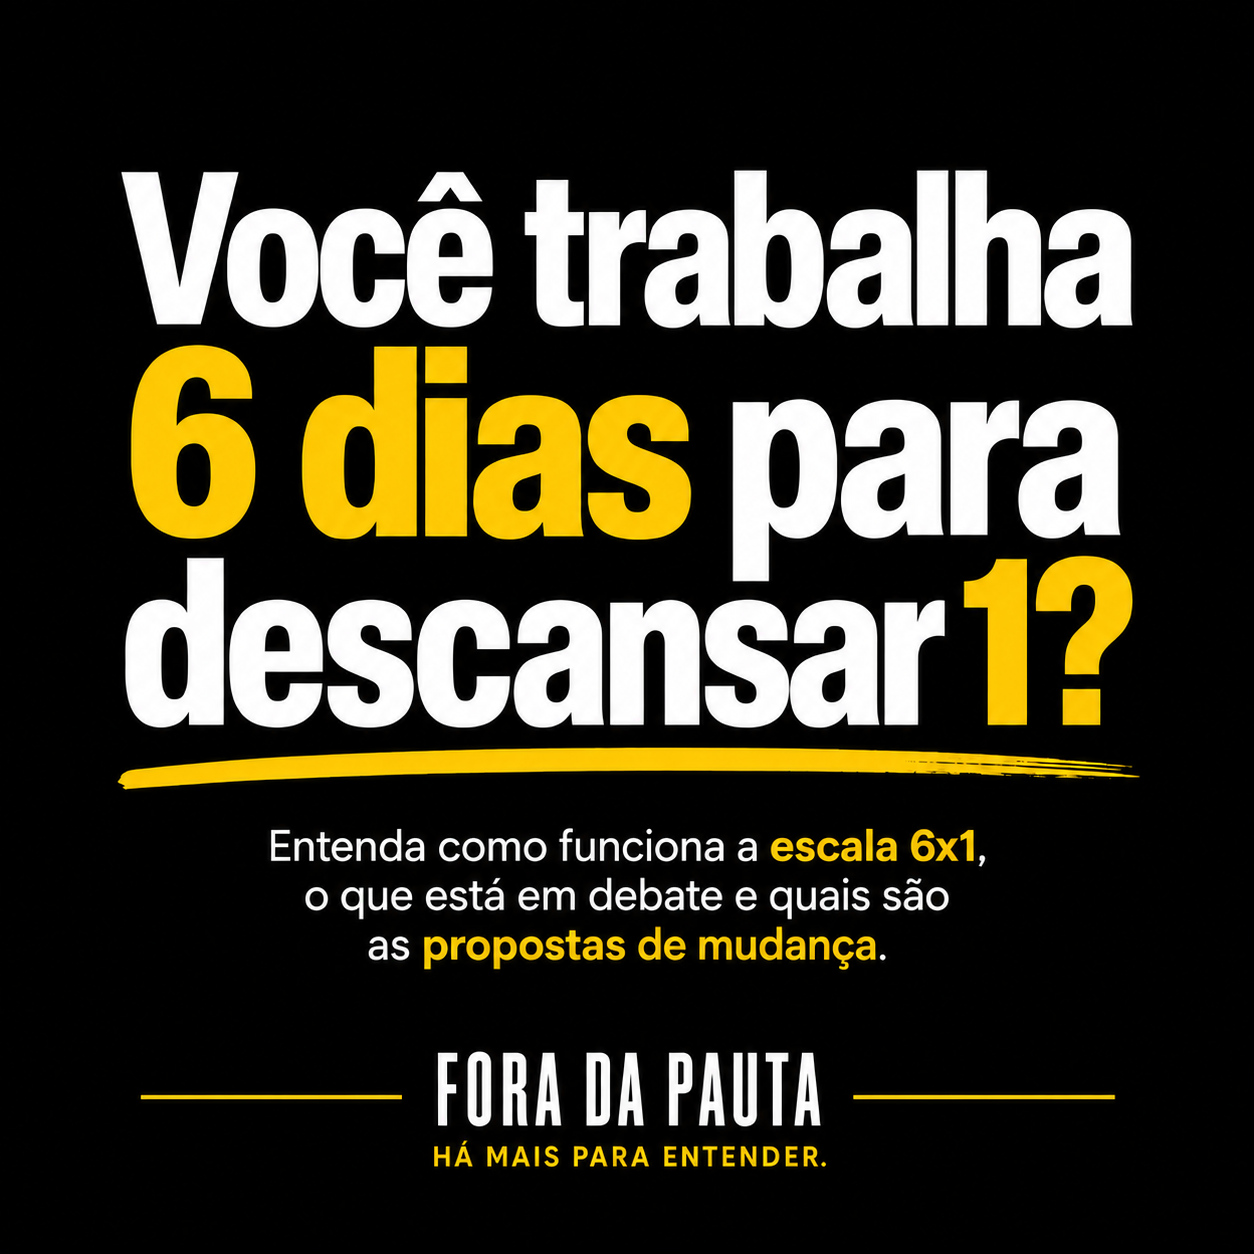
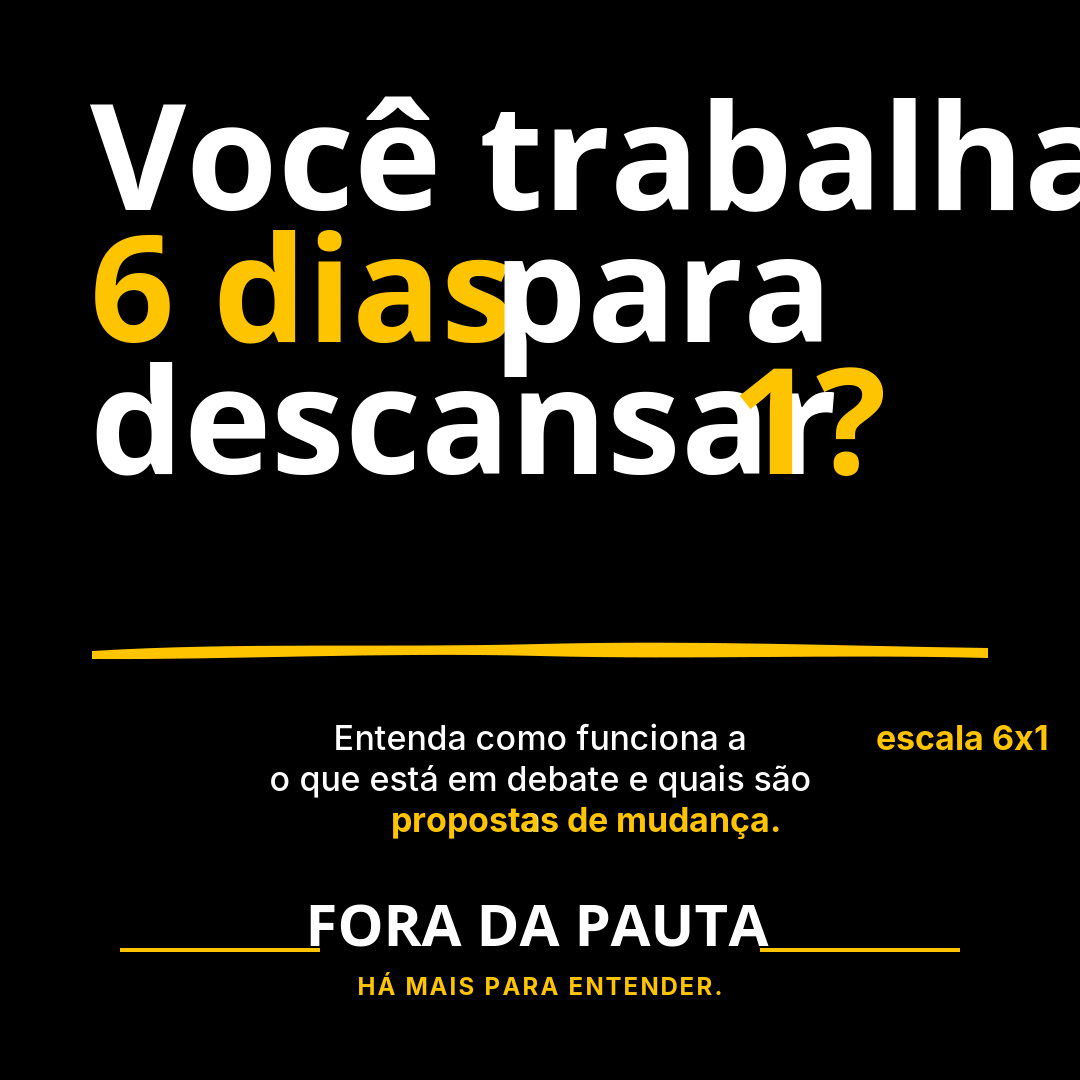
Publica grade editorial e campanha de interesses

Changed region(s): [[0.0611, 0.0917, 1.0, 0.7944], [0.0917, 0.825, 0.8861, 0.9472]]

diff --git a/app/page.tsx b/app/page.tsx
@@ -1,204 +1,118 @@
-import Image from "next/image";
+import Image from "next/image";
 import Link from "next/link";
 
+import { campaigns } from "@/data/campanhas";
+
+const capasConhecidas: Record<string, string> = {
+  "fim-escala-6x1": "/edicoes/edicao-01-fim-da-6x1-capa-grade.png",
+};
+
+function obterCapa(slug: string, coverImage?: string) {
+  return coverImage ?? capasConhecidas[slug] ?? null;
+}
+
+function obterEdicoesPublicadas() {
+  return campaigns
+    .map((campaign, index) => ({
+      campaign,
+      index,
+      coverImage: obterCapa(campaign.slug, campaign.coverImage),
+    }))
+    .filter((item) => item.coverImage !== null)
+    .sort((a, b) => {
+      const dataA = a.campaign.publishedAt
+        ? Date.parse(`${a.campaign.publishedAt}T00:00:00`)
+        : null;
+
+      const dataB = b.campaign.publishedAt
+        ? Date.parse(`${b.campaign.publishedAt}T00:00:00`)
+        : null;
+
+      if (dataA !== null && dataB !== null) {
+        return dataB - dataA;
+      }
+
+      if (dataA !== null) return -1;
+      if (dataB !== null) return 1;
+
+      return a.index - b.index;
+    });
+}
+
 export default function Home() {
+  const edicoes = obterEdicoesPublicadas();
+
   return (
-    <main className="min-h-screen bg-[#eeeee9] text-[#151515]">
-
-      {/* HERO */}
-      <section className="bg-black text-white">
-        <div className="mx-auto flex min-h-[86svh] w-full max-w-6xl flex-col px-5 pb-14 pt-6 sm:px-8 sm:pb-16 sm:pt-8 lg:px-10">
-
-          <header className="flex items-start justify-between">
-            <Link
-              href="/"
-              aria-label="Fora da Pauta"
-              className="block"
-            >
-              <Image
-                src="/marca/fora-da-pauta-branca.png"
-                alt="Fora da Pauta"
-                width={210}
-                height={150}
-                priority
-                className="h-auto w-[118px] sm:w-[142px]"
-              />
-            </Link>
-
-            <span
-              className="mt-1 h-2.5 w-2.5 rounded-full bg-[#f2c94c]"
-              aria-hidden="true"
+    <main className="flex min-h-screen flex-col bg-[#eeeee9] text-[#151515]">
+      <header className="bg-black px-5 py-2.5 text-white sm:px-8 lg:px-10">
+        <div className="mx-auto flex w-full max-w-7xl items-center justify-between">
+          <Link href="/" aria-label="Fora da Pauta">
+            <Image
+              src="/marca/fora-da-pauta-branca.png"
+              alt="Fora da Pauta"
+              width={180}
+              height={130}
+              priority
+              className="h-auto w-[60px] sm:w-[68px]"
             />
-          </header>
+          </Link>
 
-          <div className="flex flex-1 flex-col justify-center py-12 sm:py-16">
-            <p className="mb-5 text-[11px] font-semibold uppercase tracking-[0.28em] text-white/45">
-              Fora da Pauta
-            </p>
-
-            <h1 className="max-w-4xl text-[clamp(3.7rem,16vw,8rem)] font-semibold leading-[0.88] tracking-[-0.07em]">
-              Há mais
-              <br />
-              para entender.
-            </h1>
-
-            <p className="mt-8 max-w-xl text-lg leading-8 text-white/68 sm:text-xl sm:leading-9">
-              Temas que fazem parte da nossa vida, explicados de forma
-              clara, direta e com espaço para você formar a própria opinião.
-            </p>
-
-            <div className="mt-7 pb-7 sm:mt-8 sm:pb-8">
-              <Link
-                href="/campanhas/fim-escala-6x1"
-                className="inline-flex min-h-12 items-center justify-center rounded-full bg-[#f2c94c] px-6 py-3 text-sm font-semibold text-black transition hover:bg-[#f6d66d]"
-              >
-                Ver edição atual
-              </Link>
-            </div>
-          </div>
-
-          <div className="border-t border-white/15 pt-5">
-            <p className="max-w-lg text-sm leading-6 text-white/45">
-              Uma edição por vez. Um tema por edição.
-            </p>
-          </div>
-        </div>
-      </section>
-
-      {/* EDIÇÃO ATUAL */}
-      <section className="px-5 py-16 sm:px-8 sm:py-24 lg:px-10">
-        <div className="mx-auto w-full max-w-6xl">
-
-          <div className="mb-8 flex items-end justify-between gap-6 sm:mb-10">
-            <div>
-              <p className="mb-3 text-[11px] font-semibold uppercase tracking-[0.25em] text-black/40">
-                Edição atual
-              </p>
-
-              <h2 className="text-4xl font-semibold tracking-[-0.055em] sm:text-5xl">
-                Fim da escala 6x1
-              </h2>
-            </div>
-
-            <span className="hidden text-sm text-black/35 sm:block">
-              01
-            </span>
-          </div>
-
-          <Link
-  href="/campanhas/fim-escala-6x1"
-  className="group block"
->
-  <div className="border-t border-black/15 pt-5">
-
-    <div className="mb-5 flex items-center justify-between">
-      <span className="text-[11px] font-semibold uppercase tracking-[0.24em] text-black/40">
-        Trabalho
-      </span>
-
-      <span className="text-[11px] font-semibold tracking-[0.18em] text-black/35">
-        01
-      </span>
-    </div>
-
-    <div className="w-full overflow-hidden bg-black">
-  <Image
-    src="/edicoes/edicao-01-6x1-nova-identidade.png"
-    alt="Edição 01 — Fim da escala 6x1"
-    width={1536}
-    height={1024}
-    priority
-    className="h-auto w-full"
-    sizes="(max-width: 1024px) 100vw, 1100px"
-  />
-</div>
-
-    <div className="py-7 sm:py-9 lg:py-6">
-      <h3 className="max-w-2xl text-[2.35rem] font-semibold leading-[0.98] tracking-[-0.055em] sm:text-5xl">
-        Entenda o que está em discussão.
-      </h3>
-
-      <p className="mt-5 max-w-2xl text-[17px] leading-8 text-black/60 sm:text-lg">
-        Entenda a proposta, veja os argumentos dos dois lados,
-        acompanhe a tramitação e consulte quem já se posicionou.
-      </p>
-
-      <div className="mt-7 flex items-center justify-between border-t border-black/10 pt-5">
-        <div className="flex items-center gap-3">
           <span
-            className="h-[3px] w-8 bg-[#f2c94c]"
+            className="h-2 w-2 rounded-full bg-[#FFC400]"
             aria-hidden="true"
           />
-
-          <span className="text-sm font-semibold">
-            Abrir edição
-          </span>
         </div>
+      </header>
 
-        <span
-          className="text-2xl transition-transform group-hover:translate-x-1"
-          aria-hidden="true"
-        >
-          →
-        </span>
-      </div>
-    </div>
+      <section className="flex-1 px-5 py-5 sm:px-8 sm:py-6 lg:px-10 lg:py-7">
+        <div className="mx-auto w-full max-w-7xl">
+          <div className="grid grid-cols-[repeat(auto-fit,minmax(280px,420px))] justify-center gap-x-8 gap-y-10">
+            {edicoes.map(({ campaign, coverImage }, index) => (
+              <article key={campaign.slug}>
+                <Link
+                  href={`/campanhas/${campaign.slug}`}
+                  className="group block"
+                  aria-label={`Abrir ${campaign.title}`}
+                >
+                  <div className="overflow-hidden bg-black">
+                    <Image
+                      src={coverImage!}
+                      alt={campaign.title}
+                      width={1200}
+                      height={675}
+                      priority={index === 0}
+                      sizes="(max-width: 639px) 100vw, (max-width: 1023px) 50vw, 33vw"
+                      className="h-auto w-full transition-transform duration-300 group-hover:scale-[1.012]"
+                    />
+                  </div>
 
-  </div>
-</Link>
+
+                </Link>
+              </article>
+            ))}
+          </div>
         </div>
       </section>
 
-      {/* COMO FUNCIONA */}
-      <section className="border-t border-black/10 px-5 py-12 sm:px-8 sm:py-16 lg:px-10">
-        <div className="mx-auto grid w-full max-w-6xl gap-10 lg:grid-cols-[0.8fr_1.2fr]">
-
-          <div>
-            <p className="text-[11px] font-semibold uppercase tracking-[0.25em] text-black/40">
-              Como funciona
-            </p>
-          </div>
-
-          <div>
-            <p className="max-w-2xl text-3xl font-semibold leading-[1.08] tracking-[-0.045em] sm:text-4xl">
-              Cada edição escolhe um tema e vai além da frase.
-            </p>
-
-            <p className="mt-6 max-w-2xl text-lg leading-8 text-black/55">
-              Você pode chegar por uma camiseta, por um compartilhamento
-              ou diretamente pelo site. A ideia é sempre a mesma:
-              entender melhor antes de tirar uma conclusão.
-            </p>
-          </div>
-
-        </div>
-      </section>
-
-      {/* FOOTER */}
-      <footer className="bg-black px-5 py-10 text-white sm:px-8 sm:py-14 lg:px-10">
-        <div className="mx-auto flex w-full max-w-6xl flex-col gap-8 sm:flex-row sm:items-end sm:justify-between">
-
+      <footer className="bg-black px-5 py-5 text-white sm:px-8 lg:px-10">
+        <div className="mx-auto flex w-full max-w-7xl items-end justify-between">
           <Image
             src="/marca/fora-da-pauta-branca.png"
             alt="Fora da Pauta"
-            width={180}
-            height={130}
-            className="h-auto w-[105px]"
+            width={160}
+            height={115}
+            className="h-auto w-[66px]"
           />
 
-          <div className="sm:text-right">
-            <p className="text-base font-medium">
-              Há mais para entender.
-            </p>
-
-            <p className="mt-2 text-xs uppercase tracking-[0.18em] text-white/35">
-              foradapauta.org
-            </p>
-          </div>
-
+          <p className="text-xs font-semibold uppercase tracking-[0.12em] text-[#FFC400]">
+            Há mais para entender.
+          </p>
         </div>
       </footer>
-
     </main>
   );
 }
+
+
+
+

diff --git a/data/campanhas.ts b/data/campanhas.ts
@@ -36,9 +36,42 @@ export type Campaign = {
   storeUrl?: string;
   shareImage?: string;
   pautaId?: string;
+
+  /**
+   * Data editorial de publicação no formato YYYY-MM-DD.
+   * A home usa este campo para ordenar da edição mais recente para a mais antiga.
+   */
+  publishedAt?: string;
+
+  /**
+   * Imagem usada como capa do card na grade da página inicial.
+   */
+  coverImage?: string;
 };
 
 export const campaigns: Campaign[] = [
+  {
+    slug: "seus-interesses",
+    brand: "Fora da Pauta",
+    title: "O que você faria se fosse presidente?",
+    statement:
+      "Fale do seu jeito. Veja o que os candidatos já disseram sobre isso.",
+    sections: [
+      {
+        eyebrow: "Seus interesses",
+        title: "O que é importante para você?",
+        paragraphs: [
+          "A proposta desta edição é permitir que você fale livremente sobre o que gostaria de mudar na sua vida, na sua cidade ou no país.",
+          "A partir do que você disser, o Fora da Pauta buscará registros públicos relacionados aos temas mencionados e mostrará o que candidatos já disseram, fizeram ou votaram sobre eles.",
+          "As informações serão apresentadas com fontes para que você possa consultar os registros e tirar suas próprias conclusões.",
+        ],
+      },
+    ],
+    publishedAt: "2026-09-07",
+    coverImage: "/edicoes/edicao-02-seus-interesses-capa-grade.png",
+    pautaId: "seus-interesses",
+  },
+
   {
     slug: "fim-escala-6x1",
     brand: "Fora da Pauta",
@@ -183,3 +216,4 @@ export const campaigns: Campaign[] = [
 export function getCampaign(slug: string) {
   return campaigns.find((campaign) => campaign.slug === slug);
 }
+
